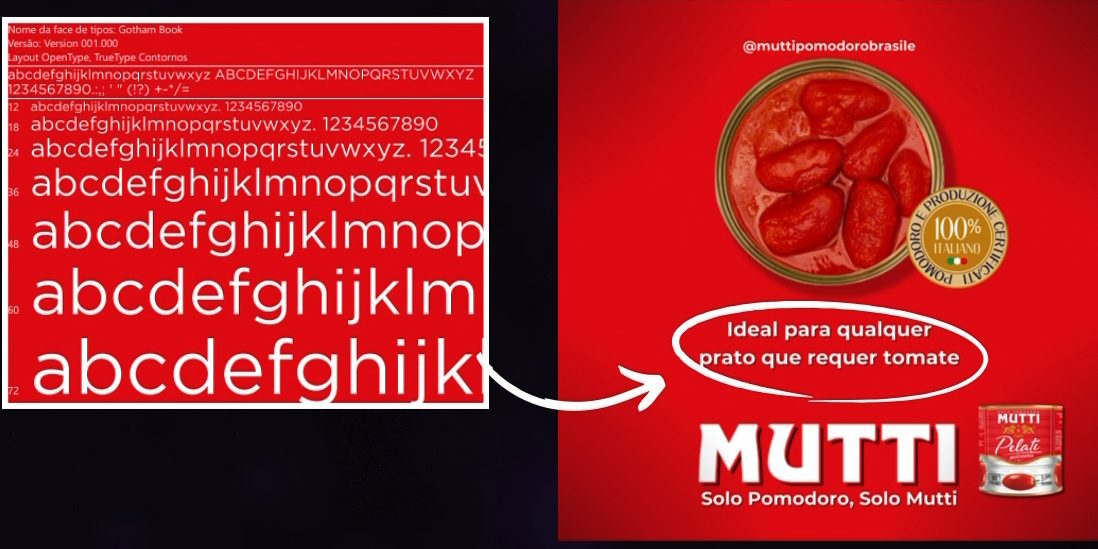
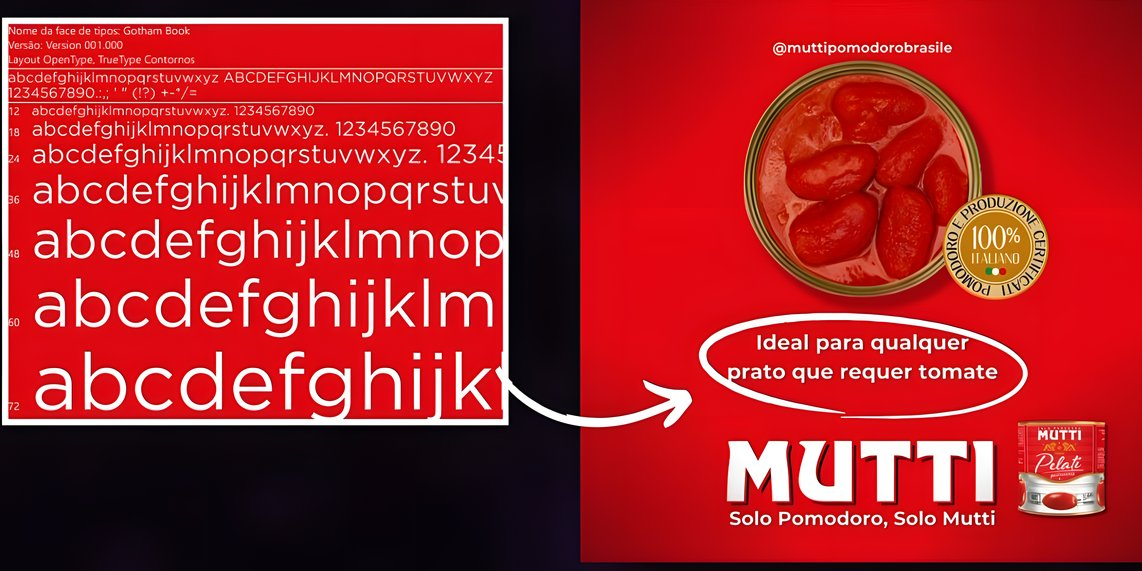
Artes de tipografia ampliadas com Real-ESRGAN (provisório)
tipo_cursiva, tipo_cursiva_app, tipo_sans e tipo_sans_app: realesrgan-x4plus
reduzido a 2x a largura exibida no desktop, JPG q85; só width/height
atualizados. Outras 8 artes avaliadas e mantidas: o modelo inventava
letras (certificados, mutti_produtos, prints da Mutti), deformava rostos
(case1_posts, case2, case3) ou só afiava texto ilegível (mutti_feed).

diff --git a/site/index.html b/site/index.html
@@ -461,16 +461,16 @@ footer .wrap{display:flex;flex-wrap:wrap;justify-content:space-between;gap:10px}
         <p class="lead" style="margin-top:14px">A Mutti disponibilizou seu padrão de tipografia para ser seguido em todos os materiais de comunicação.</p>
       </div>
       <div class="type-grid">
-        <button class="zoom reveal" data-src="img/tipo_cursiva.jpg" aria-label="Ampliar tipografia cursiva"><img src="img/tipo_cursiva.jpg" width="823" height="895" loading="lazy" decoding="async" alt="Folha da fonte cursiva Kitten Swash Monoline"></button>
+        <button class="zoom reveal" data-src="img/tipo_cursiva.jpg" aria-label="Ampliar tipografia cursiva"><img src="img/tipo_cursiva.jpg" width="934" height="1016" loading="lazy" decoding="async" alt="Folha da fonte cursiva Kitten Swash Monoline"></button>
         <div class="type-side">
           <div class="type-block reveal">
-            <button class="zoom" data-src="img/tipo_cursiva_app.jpg" aria-label="Ampliar aplicação da cursiva"><img src="img/tipo_cursiva_app.jpg" width="1098" height="452" loading="lazy" decoding="async" alt="Fonte cursiva aplicada nas embalagens Mutti"></button>
+            <button class="zoom" data-src="img/tipo_cursiva_app.jpg" aria-label="Ampliar aplicação da cursiva"><img src="img/tipo_cursiva_app.jpg" width="1142" height="470" loading="lazy" decoding="async" alt="Fonte cursiva aplicada nas embalagens Mutti"></button>
           </div>
           <div class="type-block reveal">
             <p class="sub">Sans Serifa</p>
             <p>A empresa exigia que esse padrão fosse respeitado, garantindo uniformidade e coerência em todas as representações visuais da marca.</p>
-            <button class="zoom" data-src="img/tipo_sans.jpg" aria-label="Ampliar tipografia sans serifa"><img src="img/tipo_sans.jpg" width="802" height="759" loading="lazy" decoding="async" alt="Folha da fonte Rhode Bold Condensed"></button>
-            <button class="zoom" data-src="img/tipo_sans_app.jpg" aria-label="Ampliar aplicação da sans serifa"><img src="img/tipo_sans_app.jpg" width="1098" height="549" loading="lazy" decoding="async" alt="Fonte sans serifa aplicada em post da Mutti"></button>
+            <button class="zoom" data-src="img/tipo_sans.jpg" aria-label="Ampliar tipografia sans serifa"><img src="img/tipo_sans.jpg" width="1142" height="1081" loading="lazy" decoding="async" alt="Folha da fonte Rhode Bold Condensed"></button>
+            <button class="zoom" data-src="img/tipo_sans_app.jpg" aria-label="Ampliar aplicação da sans serifa"><img src="img/tipo_sans_app.jpg" width="1142" height="571" loading="lazy" decoding="async" alt="Fonte sans serifa aplicada em post da Mutti"></button>
           </div>
         </div>
       </div>
